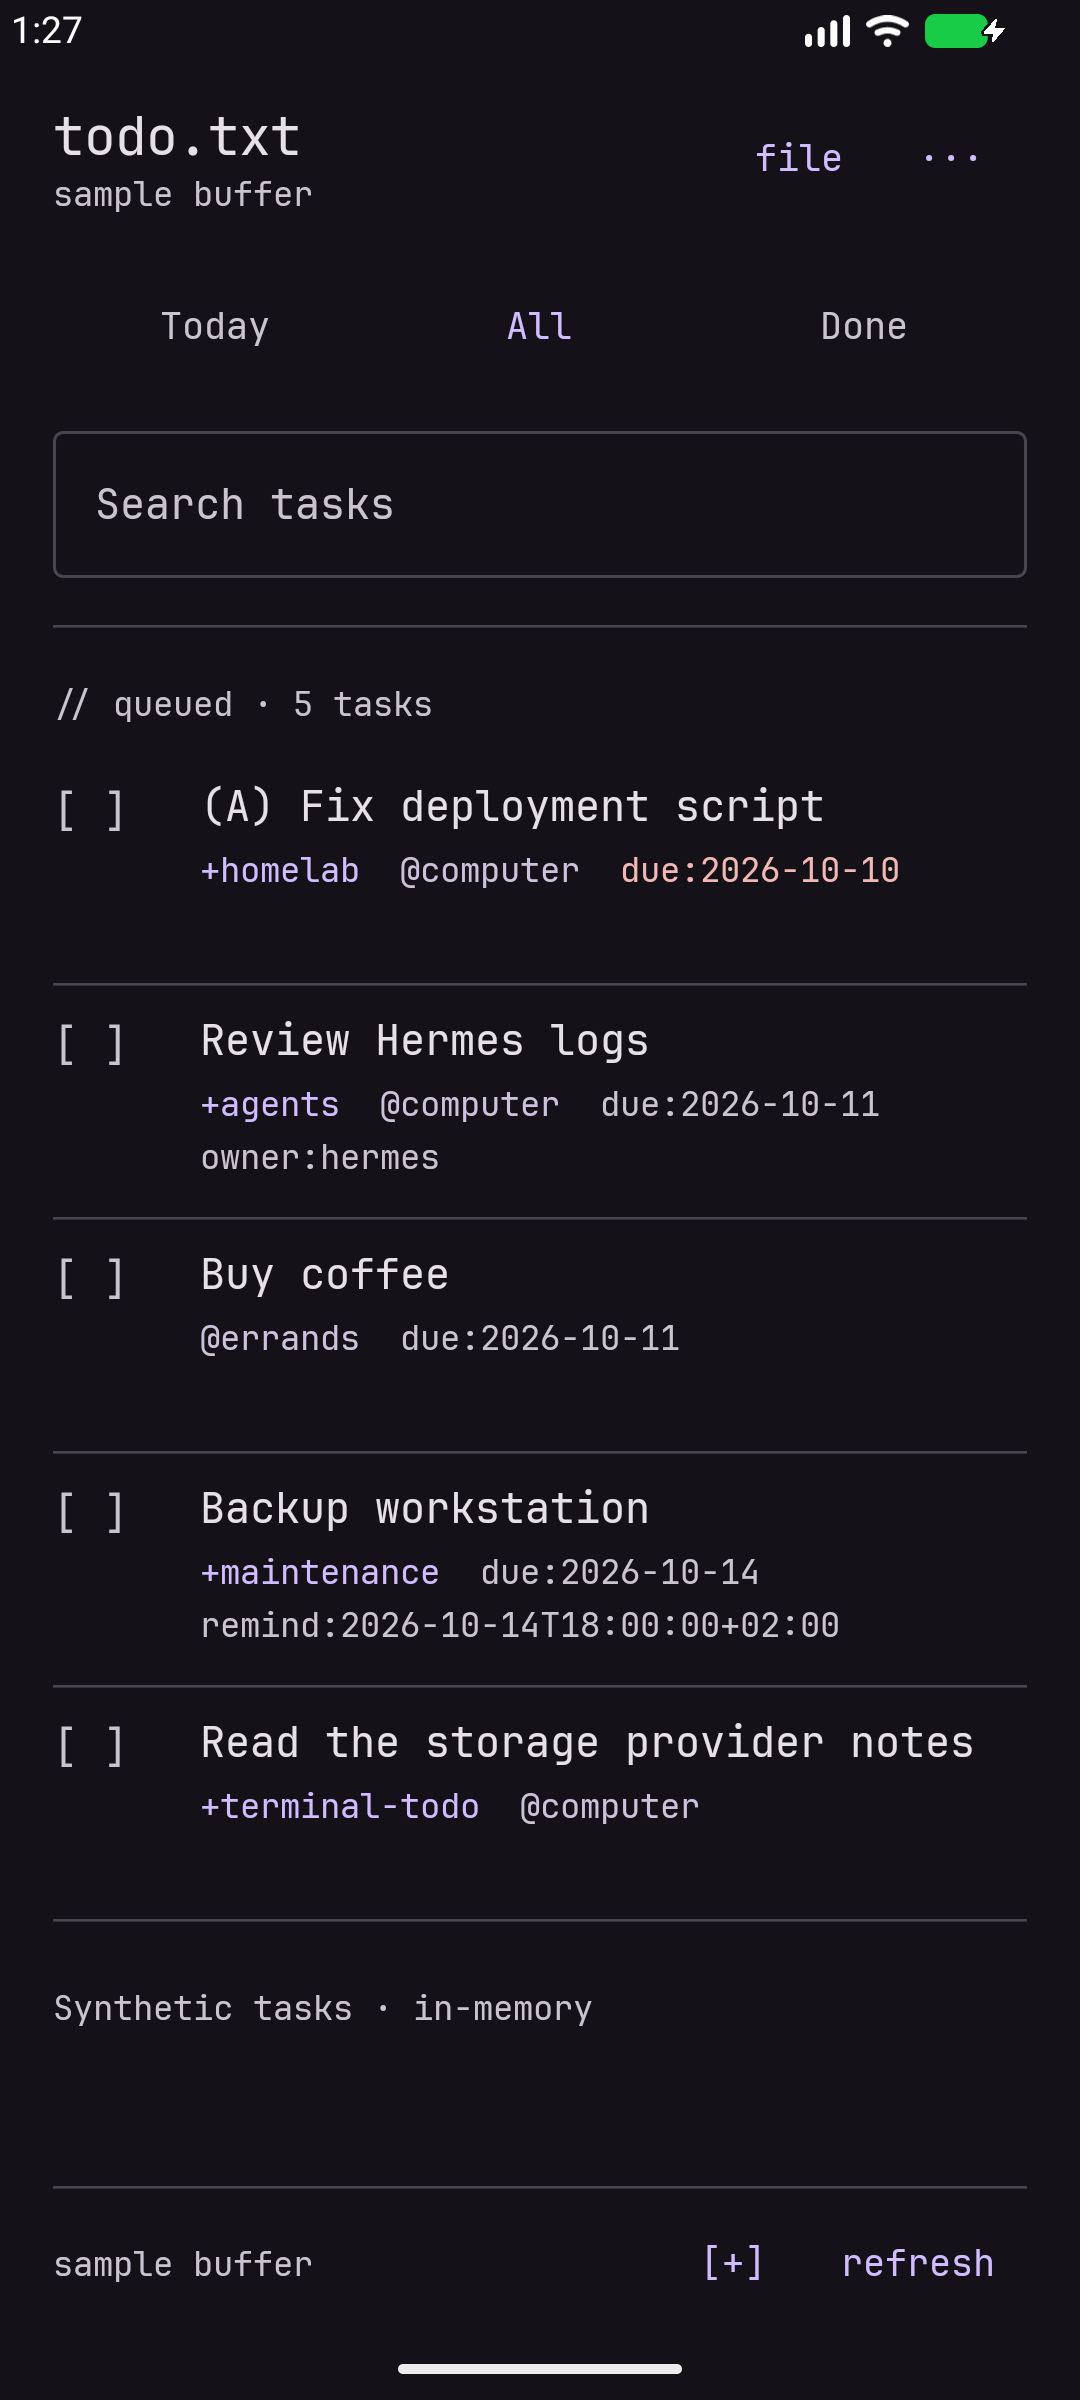
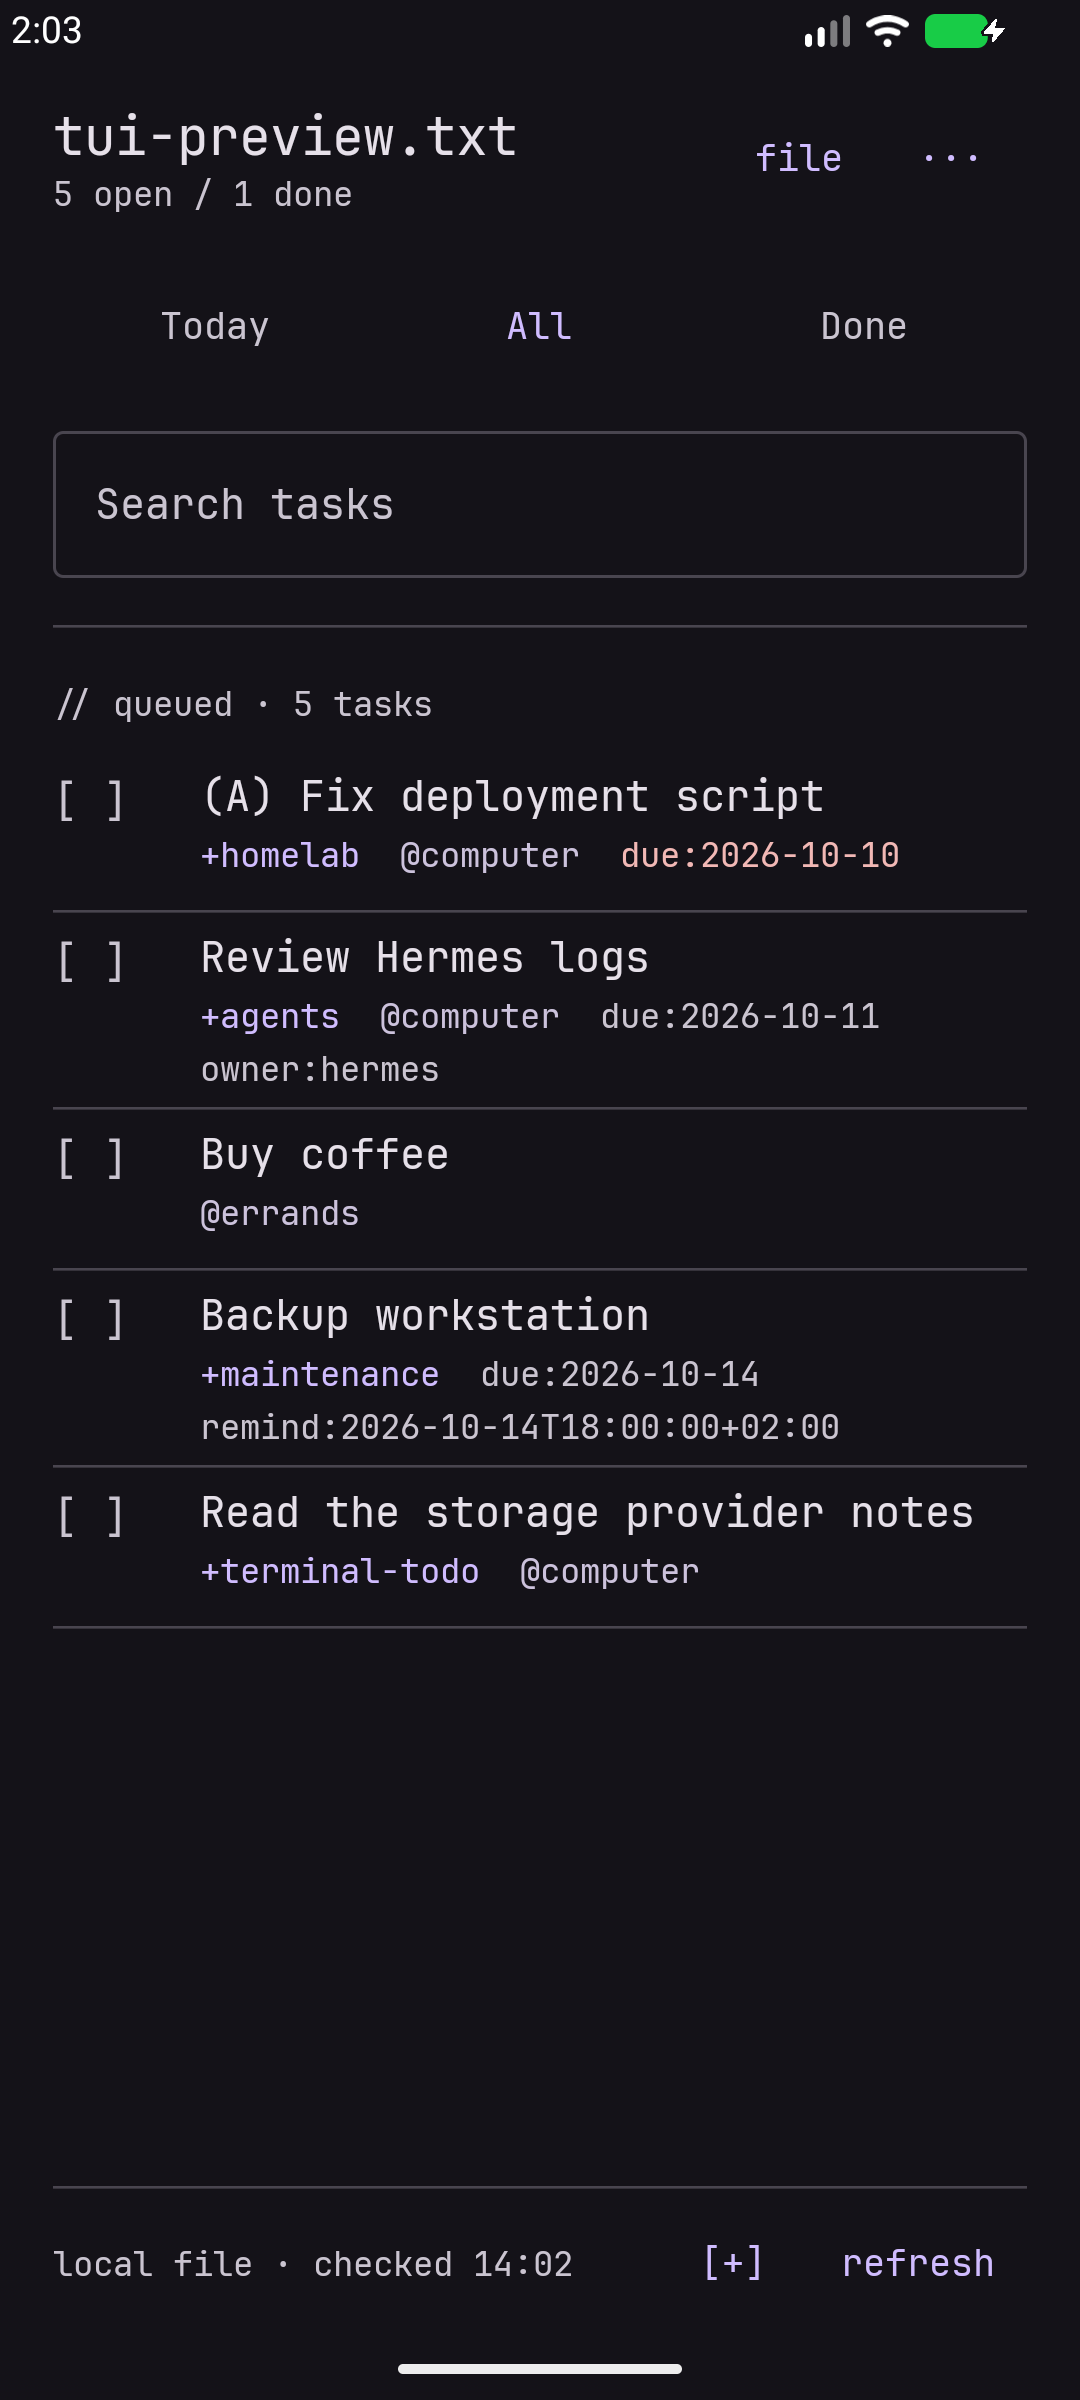
feat: polish task layout and suggest existing tags

diff --git a/app/src/main/kotlin/dev/terminaltodo/spike/TodoScreen.kt b/app/src/main/kotlin/dev/terminaltodo/spike/TodoScreen.kt
@@ -36,11 +36,14 @@ fun TodoScreen(
     var tab by rememberSaveable { mutableStateOf("All") }
     var search by rememberSaveable { mutableStateOf("") }
     var settings by rememberSaveable { mutableStateOf(false) }
+    var diagnosticsExpanded by rememberSaveable(settings) { mutableStateOf(false) }
     var rawDocument by rememberSaveable { mutableStateOf(false) }
     var editorHidden by rememberSaveable(state.draft?.source, state.draft?.line, state.draft?.kind) { mutableStateOf(false) }
     var discardConfirm by rememberSaveable { mutableStateOf(false) }
     var recoveryOpen by rememberSaveable { mutableStateOf(false) }
     var selectedRaw by rememberSaveable { mutableStateOf<String?>(null) }
+    val existingContexts = remember(state.tasks) { state.tasks.flatMap { it.contexts }.map { it.text }.distinct().sorted() }
+    val existingProjects = remember(state.tasks) { state.tasks.flatMap { it.projects }.map { it.text }.distinct().sorted() }
     val today = if (state.demo) LocalDate.of(2026, 10, 11) else LocalDate.now()
     val currentTab = tab // Lazy content must use the same tab snapshot as the filtered list.
     val shown = remember(state.tasks, currentTab, search, today) {
@@ -64,7 +67,12 @@ fun TodoScreen(
                 Row(verticalAlignment = Alignment.CenterVertically, modifier = Modifier.fillMaxWidth().padding(top = 12.dp)) {
                     Column(Modifier.weight(1f)) {
                         Text(state.name, style = MaterialTheme.typography.titleLarge, modifier = Modifier.semantics { heading() })
-                        Text(if (state.demo) "sample buffer" else "selected document", style = MaterialTheme.typography.bodySmall, color = colors.onSurfaceVariant)
+                        Text(when {
+                            state.loading -> "reading…"
+                            state.error != null -> "file unavailable"
+                            state.demo -> "sample buffer"
+                            else -> "${state.tasks.count { !it.completed }} open / ${state.tasks.count { it.completed }} done"
+                        }, style = MaterialTheme.typography.bodySmall, color = colors.onSurfaceVariant)
                     }
                     TextButton(onClick = onOpen, modifier = Modifier.heightIn(min = 48.dp)) { Text("file") }
                     TextButton(onClick = { settings = true }, modifier = Modifier.heightIn(min = 48.dp).semantics { contentDescription = "Settings" }) { Text("···") }
@@ -149,12 +157,18 @@ fun TodoScreen(
                 }
                 HorizontalDivider(Modifier.padding(vertical = 12.dp))
                 TextButton(onClick = { settings = false; rawDocument = true }, enabled = state.snapshot != null) { Text("View raw document") }
-                TextButton(onClick = { settings = false; onDemo() }) { Text("Show sample tasks") }
-                Text("Storage diagnostics", style = MaterialTheme.typography.titleMedium, modifier = Modifier.padding(top = 12.dp))
-                Text("Create a disposable file in the folder you want to test. Only that new file is written. The diagnostic does not write your task file.", style = MaterialTheme.typography.bodySmall, modifier = Modifier.padding(top = 8.dp))
-                TextButton(onClick = onDiagnostic, enabled = !state.probing) { Text(if (state.probing) "Testing…" else "Create test file") }
-                state.diagnostic?.let { SelectionContainer { Text(it, style = MaterialTheme.typography.bodySmall) } }
-                TextButton(onClick = onClearRecovery, enabled = !state.probing) { Text("Clear diagnostic recovery") }
+                Row(Modifier.fillMaxWidth().heightIn(min = 48.dp).clickable(role = Role.Button) { diagnosticsExpanded = !diagnosticsExpanded }
+                    .semantics { stateDescription = if (diagnosticsExpanded) "Expanded" else "Collapsed" }, verticalAlignment = Alignment.CenterVertically) {
+                    Text(if (diagnosticsExpanded) "[-]" else "[+]", color = colors.onSurfaceVariant, modifier = Modifier.padding(end = 12.dp))
+                    Text("Diagnostics", color = colors.onSurfaceVariant)
+                }
+                if (diagnosticsExpanded) {
+                    TextButton(onClick = { settings = false; onDemo() }) { Text("Show sample tasks") }
+                    Text("Test file access with a new disposable file. Your task file is not used for this test.", style = MaterialTheme.typography.bodySmall, color = colors.onSurfaceVariant, modifier = Modifier.padding(top = 8.dp))
+                    TextButton(onClick = onDiagnostic, enabled = !state.probing && !state.saving) { Text(if (state.probing) "Testing…" else "Create test file") }
+                    state.diagnostic?.let { SelectionContainer { Text(it, style = MaterialTheme.typography.bodySmall) } }
+                    TextButton(onClick = onClearRecovery, enabled = !state.probing && !state.saving) { Text("Clear diagnostic recovery") }
+                }
             }
         })
     }
@@ -168,6 +182,12 @@ fun TodoScreen(
                 if (draft.kind == "toggle") SelectionContainer { Text(draft.text) }
                 else OutlinedTextField(draft.text, onValueChange = onDraftText, enabled = !state.saving, readOnly = draft.proposedHash != null, singleLine = true,
                     label = { Text("Task line") }, modifier = Modifier.fillMaxWidth(), textStyle = MaterialTheme.typography.bodyMedium)
+                if (draft.kind != "toggle") {
+                    FlowRow(Modifier.fillMaxWidth().padding(top = 4.dp)) {
+                        ExistingTagMenu("@context", existingContexts, draft.text, !state.saving && draft.proposedHash == null, onDraftText)
+                        ExistingTagMenu("+project", existingProjects, draft.text, !state.saving && draft.proposedHash == null, onDraftText)
+                    }
+                }
                 Text("Keep +projects, @contexts and key:value fields in the line.", style = MaterialTheme.typography.bodySmall, color = colors.onSurfaceVariant, modifier = Modifier.padding(top = 12.dp))
                 state.draftError?.let { Text(it, color = colors.error, modifier = Modifier.padding(top = 12.dp)) }
                 TextButton(onClick = { editorHidden = true }, enabled = !state.saving) { Text("keep draft") }
@@ -212,6 +232,29 @@ fun TodoScreen(
     }
 }
 
+@Composable private fun ExistingTagMenu(label: String, tags: List<String>, draft: String, enabled: Boolean, onChange: (String) -> Unit) {
+    var expanded by remember { mutableStateOf(false) }
+    val suggestions = remember(tags, draft) {
+        val present = Regex("\\S+").findAll(draft).map { it.value }.toSet()
+        tags.filterNot { it in present }
+    }
+    Box {
+        TextButton(onClick = { expanded = true }, enabled = enabled, modifier = Modifier.heightIn(min = 48.dp)) {
+            Text(label, maxLines = 1, softWrap = false)
+        }
+        DropdownMenu(expanded = expanded, onDismissRequest = { expanded = false }, modifier = Modifier.widthIn(max = 280.dp).heightIn(max = 240.dp)) {
+            if (suggestions.isEmpty()) DropdownMenuItem(text = { Text("No more existing tags") }, onClick = {}, enabled = false)
+            suggestions.forEach { tag ->
+                DropdownMenuItem(text = { Text(tag, maxLines = 1, overflow = androidx.compose.ui.text.style.TextOverflow.Ellipsis) }, onClick = {
+                    expanded = false
+                    val separator = if (draft.isEmpty() || draft.last().isWhitespace()) "" else " "
+                    onChange(draft + separator + tag)
+                })
+            }
+        }
+    }
+}
+
 @Composable private fun GroupLabel(label: String, count: Int, alert: Boolean = false) {
     Text("// $label · $count ${if (count == 1) "task" else "tasks"}", style = MaterialTheme.typography.bodySmall,
         color = if (alert) MaterialTheme.colorScheme.error else MaterialTheme.colorScheme.onSurfaceVariant,
@@ -220,7 +263,7 @@ fun TodoScreen(
 
 @Composable private fun TaskRow(task: TaskView, today: LocalDate, enabled: Boolean, onToggle: () -> Unit, onClick: () -> Unit) {
     val colors = MaterialTheme.colorScheme
-    Row(Modifier.fillMaxWidth().heightIn(min = 88.dp).padding(vertical = 10.dp), verticalAlignment = Alignment.Top) {
+    Row(Modifier.fillMaxWidth().heightIn(min = 56.dp).padding(vertical = 6.dp), verticalAlignment = Alignment.Top) {
         val ink = if (task.completed) colors.secondary else colors.onSurfaceVariant
         Box(Modifier.widthIn(min = 56.dp).heightIn(min = 48.dp).toggleable(value = task.completed, enabled = enabled, role = Role.Checkbox, onValueChange = { onToggle() })
             .semantics { contentDescription = (if (task.completed) "Reopen task: " else "Complete task: ") + task.description }
@@ -237,7 +280,7 @@ fun TodoScreen(
                 }
                 parts.forEachIndexed { index, (text, color) -> if (index > 0) append("  "); withStyle(SpanStyle(color = color)) { append(text) } }
             }
-            if (meta.isNotEmpty()) Text(meta, style = MaterialTheme.typography.bodySmall, modifier = Modifier.padding(top = 5.dp))
+            if (meta.isNotEmpty()) Text(meta, style = MaterialTheme.typography.bodySmall, modifier = Modifier.padding(top = 3.dp))
             if (task.issues.isNotEmpty()) Text(task.issues.joinToString(" · "), color = colors.error, style = MaterialTheme.typography.bodySmall)
         }
     }

diff --git a/app/src/androidTest/kotlin/dev/terminaltodo/spike/TodoScreenTest.kt b/app/src/androidTest/kotlin/dev/terminaltodo/spike/TodoScreenTest.kt
@@ -1,6 +1,8 @@
 package dev.terminaltodo.spike
 
 import androidx.compose.ui.test.*
+import androidx.compose.runtime.getValue
+import androidx.compose.runtime.setValue
 import androidx.compose.foundation.layout.Box
 import androidx.compose.foundation.layout.width
 import androidx.compose.runtime.CompositionLocalProvider
@@ -97,6 +99,34 @@ class TodoScreenTest {
         assertFalse(discarded)
         compose.onNodeWithText("Discard", ignoreCase = false).performClick()
         assertTrue(discarded)
+    }
+
+    @Test fun settingsKeepsDiagnosticActionsCollapsedUntilRequested() {
+        render()
+        compose.onNodeWithContentDescription("Settings").performClick()
+        compose.onNodeWithText("Create test file").assertDoesNotExist()
+        compose.onNodeWithText("Clear diagnostic recovery").assertDoesNotExist()
+        compose.onNodeWithText("Show sample tasks").assertDoesNotExist()
+        compose.onNodeWithText("Diagnostics").performClick()
+        compose.onNodeWithText("Create test file").performScrollTo().assertIsDisplayed()
+        compose.onNodeWithText("Clear diagnostic recovery").performScrollTo().assertIsDisplayed()
+        compose.onNodeWithText("Diagnostics").performScrollTo().performClick()
+        compose.onNodeWithText("Create test file").assertDoesNotExist()
+    }
+
+    @Test fun existingTagMenusInsertContextAndProjectWithoutDuplicates() {
+        val snapshot = demoSnapshot()
+        var text by androidx.compose.runtime.mutableStateOf("New task")
+        compose.setContent { TerminalTheme { TodoScreen(TodoState(snapshot = snapshot, tasks = snapshot.lines.mapNotNull(TaskParser::parse), writable = true,
+            draft = TaskDraft("demo", snapshot, null, text, "add")), onDraftText = { text = it }) } }
+        compose.onNodeWithText("@context").performClick()
+        compose.onNodeWithText("@computer").performClick()
+        assertEquals("New task @computer", text)
+        compose.onNodeWithText("+project").performClick()
+        compose.onNodeWithText("+homelab").performClick()
+        assertEquals("New task @computer +homelab", text)
+        compose.onNodeWithText("@context").performClick()
+        compose.onNodeWithText("@computer").assertDoesNotExist()
     }
 
 }

diff --git a/README.md b/README.md
@@ -39,18 +39,20 @@ Debug APK: `app/build/outputs/apk/debug/app-debug.apk`. This package and debug s
 - Search matches raw task text, including project, context and unknown metadata tokens.
 - Tap `[ ]` to complete a task or `[X]` to reopen it. The controls have checkbox semantics and at least 48dp touch targets.
 - Tap a task body to edit its original line. Save changes only that line; untouched bytes stay unchanged. Projects, contexts, dates and unknown metadata remain plain text.
+- In the editor, `@context` and `+project` offer tags already used in this file; selecting one inserts it into the draft without duplicating an existing tag. New tags can still be typed normally.
 - `[+]` adds one task. New lines use the predominant existing line ending and preserve the file's final-newline convention.
 - `undo` reverses the last local change only when the file still matches that saved result. Undo is available for the current app session.
 - Drafts are kept privately across restarts. Back/keep draft closes the editor; discard asks explicitly. Changed/ambiguous targets block saving and keep the draft.
 - Settings also offers a raw document view; invalid UTF-8 is shown as hex, with writing disabled.
 - `refresh` re-reads the selected document; foreground return also refreshes it.
-- Settings offers Vesper, Dark and Light; Show sample tasks returns to synthetic data. Sample changes are in memory and reset on refresh; they never write your file.
+- The filename subtitle shows total open/done counts, independent of the current search/filter.
+- Settings keeps diagnostics collapsed and offers Vesper, Dark and Light; Show sample tasks returns to synthetic data. Sample changes are in memory and reset on refresh; they never write your file.
 
 Files are bounded to 8 MiB for this initial spike. Raw document dialogs show at most the first 64 KiB and say so. Read failures are shown as errors, never interpreted as an empty file.
 
 ## Disposable storage test
 
-Settings → Create test file launches ACTION_CREATE_DOCUMENT. Pick the same local provider/folder used for your synced tasks. Android creates a new file; this is never an edit of your selected todo.txt.
+Settings → Diagnostics → Create test file launches ACTION_CREATE_DOCUMENT. Pick the same local provider/folder used for your synced tasks. Android creates a new file; this is never an edit of your selected todo.txt.
 
 The app records private before/proposed bytes and an intent manifest before writing a long synthetic payload, then a shorter one. It closes each stream and verifies bytes by reading them back. The diagnostic reports provider authority and persisted permission status.
 

diff --git a/docs/M2_VALIDATION.md b/docs/M2_VALIDATION.md
@@ -65,3 +65,11 @@ After the owner reconnected the OnePlus Nord 4 (Android 16), build `0.0.2-m2` wa
 - The real `todo.txt` was reopened, and its SHA-256 before/after this verification matched. No real task was changed by these checks.
 
 The new handset UI/write path is now checked. Full TalkBack, landscape/keyboard variations, abrupt storage faults and concurrent external-writer races remain untested.
+
+## UI polish and tag suggestions
+
+Build `0.0.3-m2` tightens the row minimum/padding while retaining 48dp checkbox and editor touch targets, replaces the generic file subtitle with open/done counts, and keeps Settings diagnostics collapsed by default. Context/project menus draw distinct suggestions from the selected file (including completed tasks), omit tags already in the draft, and insert only after an explicit selection. New tags remain free text. Menu controls can wrap onto another row when space is limited.
+
+Nine Compose tests plus the real-activity synthetic complete/reopen/edit/add/undo flow passed on the emulator; all ten tests ran without skips. New checks cover diagnostic disclosure and context/project insertion with duplicate exclusion. Lint remains clean. Screenshots cover the compact list/settings, tag menu, and narrow large-font editor. Task-storage/core code was unchanged by this polish.
+
+The UI polish build was installed on the handset; its real todo.txt hash matched before/after installation. Tag selection was validated on the emulator without saving changes to real handset tasks.

diff --git a/PLAN.md b/PLAN.md
@@ -32,3 +32,7 @@ Implemented and validated on the actual Android 16 handset and synced folder; se
 Owner requested `[ ]` / `[X]` TUI controls and the next logical complete/edit/add steps while the phone is unplugged. Implemented complete/reopen, explicit single-line editing, append, conservative unique-line rebase, session undo, atomic private drafts and retained write recovery. Only the local emulator's synthetic document was mutated during this work. See docs/M2_VALIDATION.md.
 
 Next: richer field editing (priority/due pickers with token-level patches), further accessibility coverage, then M3 reminders. The M2 build has now been installed and its complete/reopen/edit/add/undo flow checked on a disposable synced handset document. The real todo.txt was reopened and its before/after hash matched.
+
+## UI polish
+
+Owner requested cleaner Settings, tighter task rows, a useful filename subtitle, and existing context/project choices. Implemented collapsed diagnostics, compact accessible rows, open/done counts and draft tag suggestions. Priority/due field pickers and reminders remain next.
